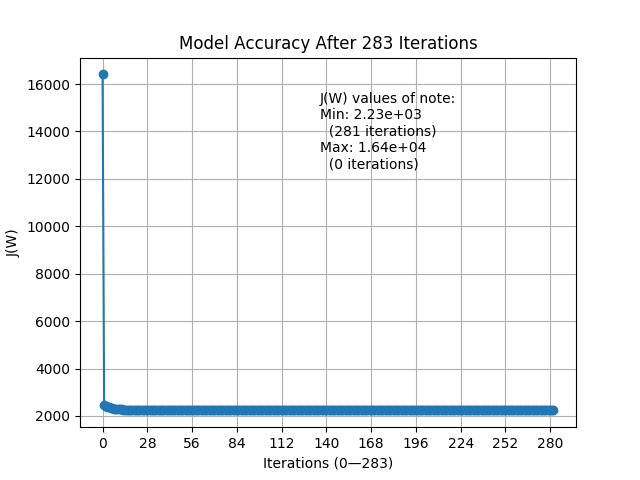
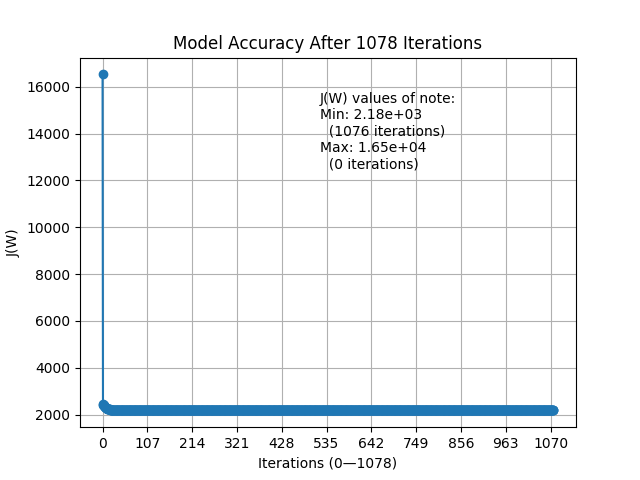
progress

diff --git a/main.py b/main.py
@@ -13,6 +13,7 @@ from copy import deepcopy
 from matplotlib import pyplot as plt
 import numpy as np
 from mpl_toolkits.mplot3d import axes3d, Axes3D
+from itertools import combinations
 all_data = []
 all_data_mins = []
 all_data_maxes = []
@@ -66,7 +67,7 @@ def improve_weights():
             temp_W[i] = float(apply_alpha(i))
         print('.', end="", flush=True)
         W = deepcopy(temp_W)
-        alpha = float(0.90 * alpha) ### scale alpha by 0.995 to slowly approach best weights
+        alpha = float(0.995 * alpha) ### scale alpha by 0.995 to slowly approach best weights
         last_J = current_J
         current_J = J(W, train_data)
         J_change = current_J - last_J
@@ -85,20 +86,34 @@ def build_z(d):
                     terms.append(result)
                     yield [*result,x]
 
-    _X = []
-    for _d in range(d + 1):
-        _X.append(_d)
+    n = int(d)
+    X_indicies = list(range(feature_count))
+    output = sum([list(map(list,combinations(X_indicies,i))) for i in range(len(X_indicies) + 1)],[])
+    o = deepcopy(output)
     terms = []
-    for f in range(feature_count):
-        l = sorted([0,f])
-        z.append(l)
-        terms.append(l)
-    z_g = recur(d)
-    for xl in z_g:
-        xl = sorted(xl)
-        if xl not in terms:
-            terms.append(xl)
-            z.append(xl)
+    for item in o:
+        item = sorted(item)
+        if len(item) > n or item in terms or len(item) <= 0:
+            output.remove(item)
+        else:
+            terms.append(item)
+    z = output
+
+
+    #  _X = []
+    #  for _d in range(d + 1):
+        #  _X.append(_d)
+    #  terms = []
+    #  for f in range(feature_count):
+        #  l = sorted([0,f])
+        #  z.append(l)
+        #  terms.append(l)
+    #  z_g = recur(d)
+    #  for xl in z_g:
+        #  xl = sorted(xl)
+        #  if xl not in terms:
+            #  terms.append(xl)
+            #  z.append(xl)
 
 """
 name   : zx_swap
@@ -191,12 +206,12 @@ def init():
     global W, temp_W, init_J, test_data, alpha, all_data, degree, z, feature_count
 
     default = 2
+    def_filename = "label_new_data_set.csv"
     degree = input("What degree polynomial would you like to model? (default: " + str(default) + "): ")
     if degree == "":
         degree = int(default)
     else:
         degree = int(degree)
-        def_filename = "label_new_data_set.csv"
     if(len(all_data) == 0):
         filename = input("Enter filename (default: " + def_filename + "): ")
         if filename == "":
@@ -205,6 +220,8 @@ def init():
     build_z(degree)
     W = [0.0] * len(z)
     temp_W = W
+    print(z)
+    input()
 
     divide_data()
     alpha = 1

diff --git a/wat.py b/wat.py
@@ -1,0 +1,31 @@
+def do_things(X, n):
+    new_list = []
+    x = [0] * n
+    for i in range(len(X) ** n):
+        z = [j - 1 for j in x ]
+        new_list.append(z)
+        x[0] += 1
+        
+        for j in range(n):
+            if x[len(x) - j - 1] >= n:
+                x[len(x) - j - 1] = 0
+                x[len(x) - j] += 1
+            else:
+                break
+    return new_list
+
+n = int(input('Degree: '))
+X = [1,2,3,4,5]
+X_indicies = list(range(len(X)))
+from itertools import combinations
+import copy
+output = sum([list(map(list,combinations(X_indicies,i))) for i in range(len(X_indicies) + 1)],[])
+o = deepcopy(output)
+terms = []
+for item in o:
+    item = sorted(item)
+    if len(item) > n or item in terms or len(item) <= 0:
+        output.remove(item)
+    else:
+        terms.append(item)
+
